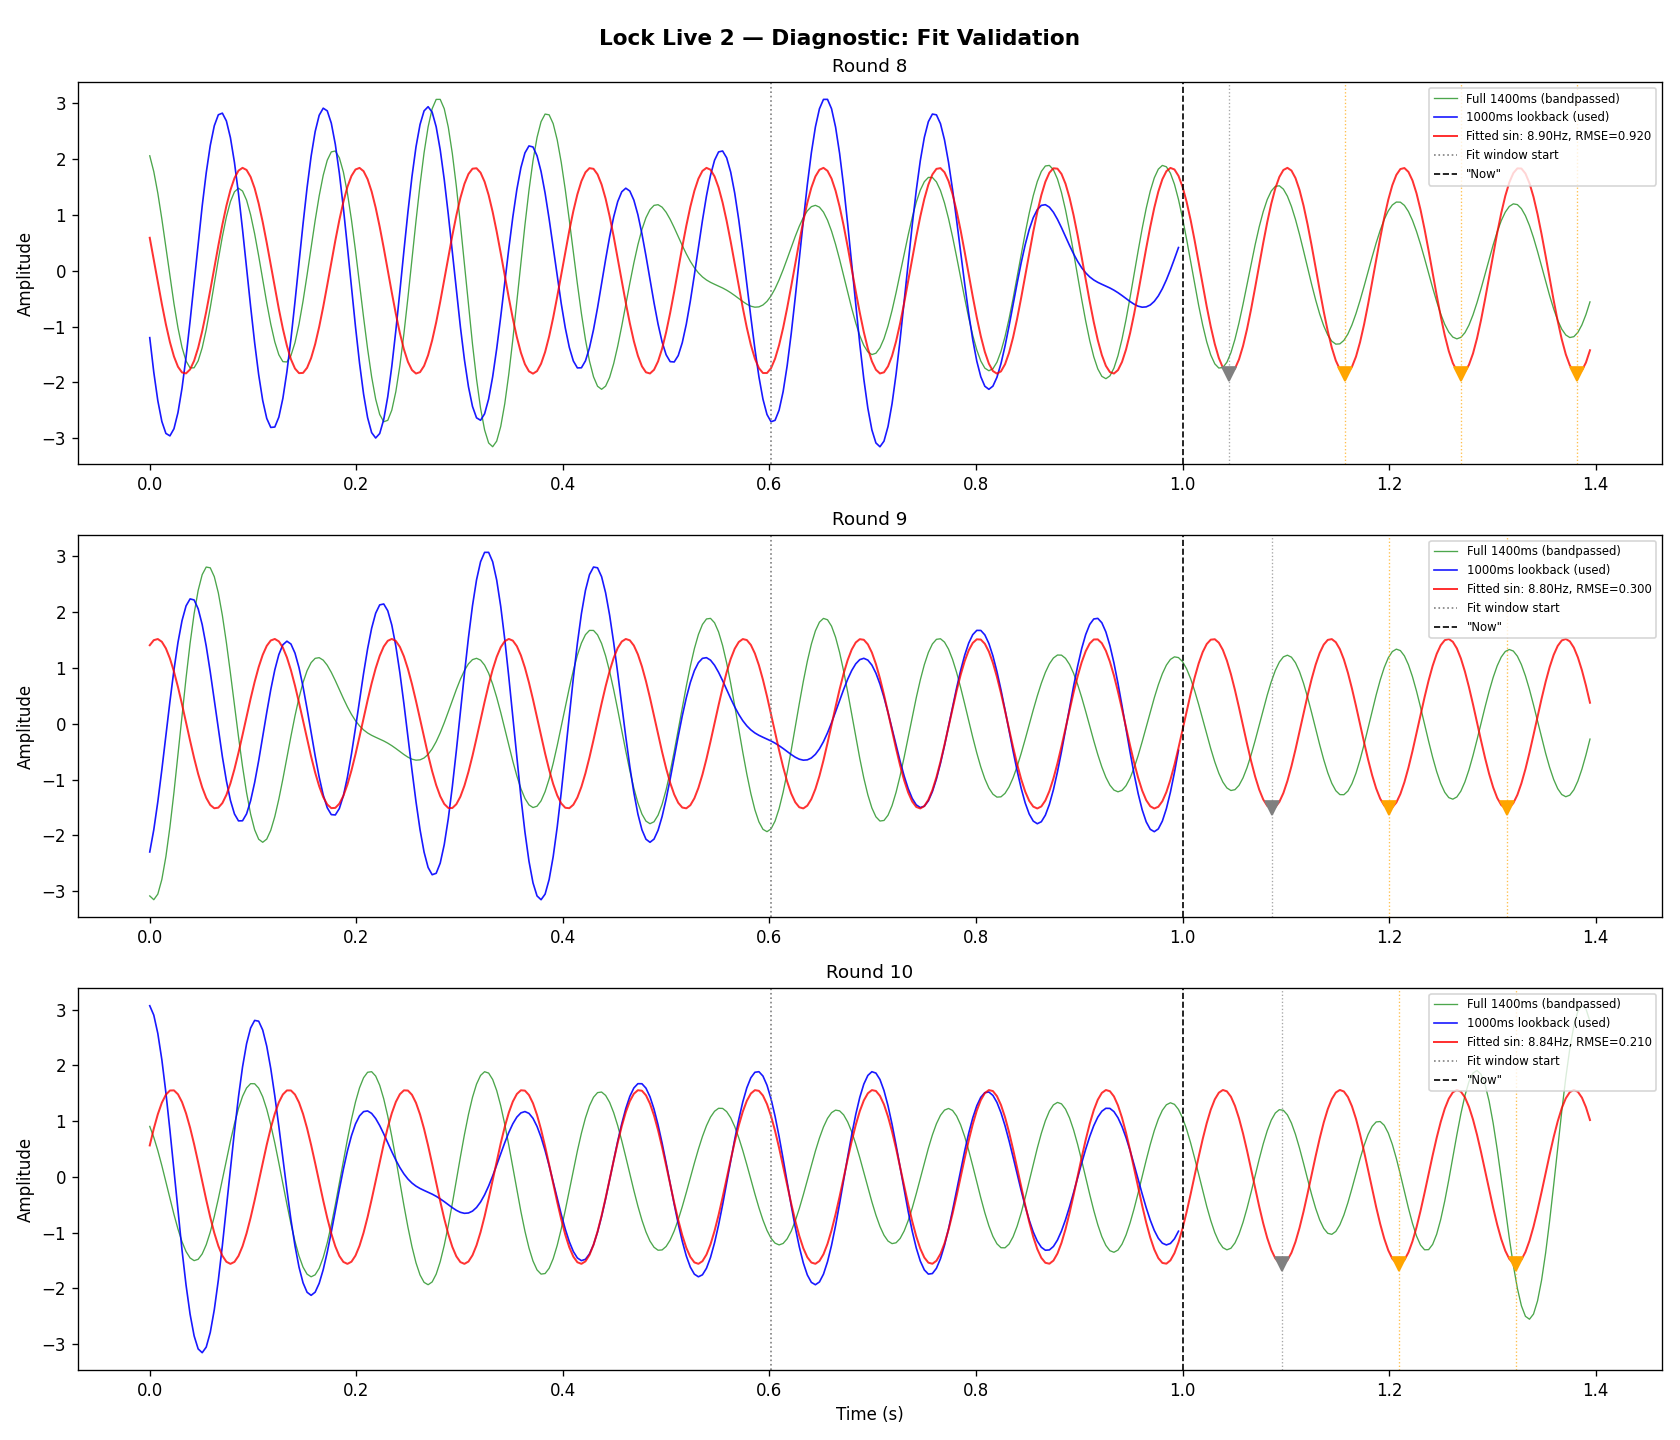
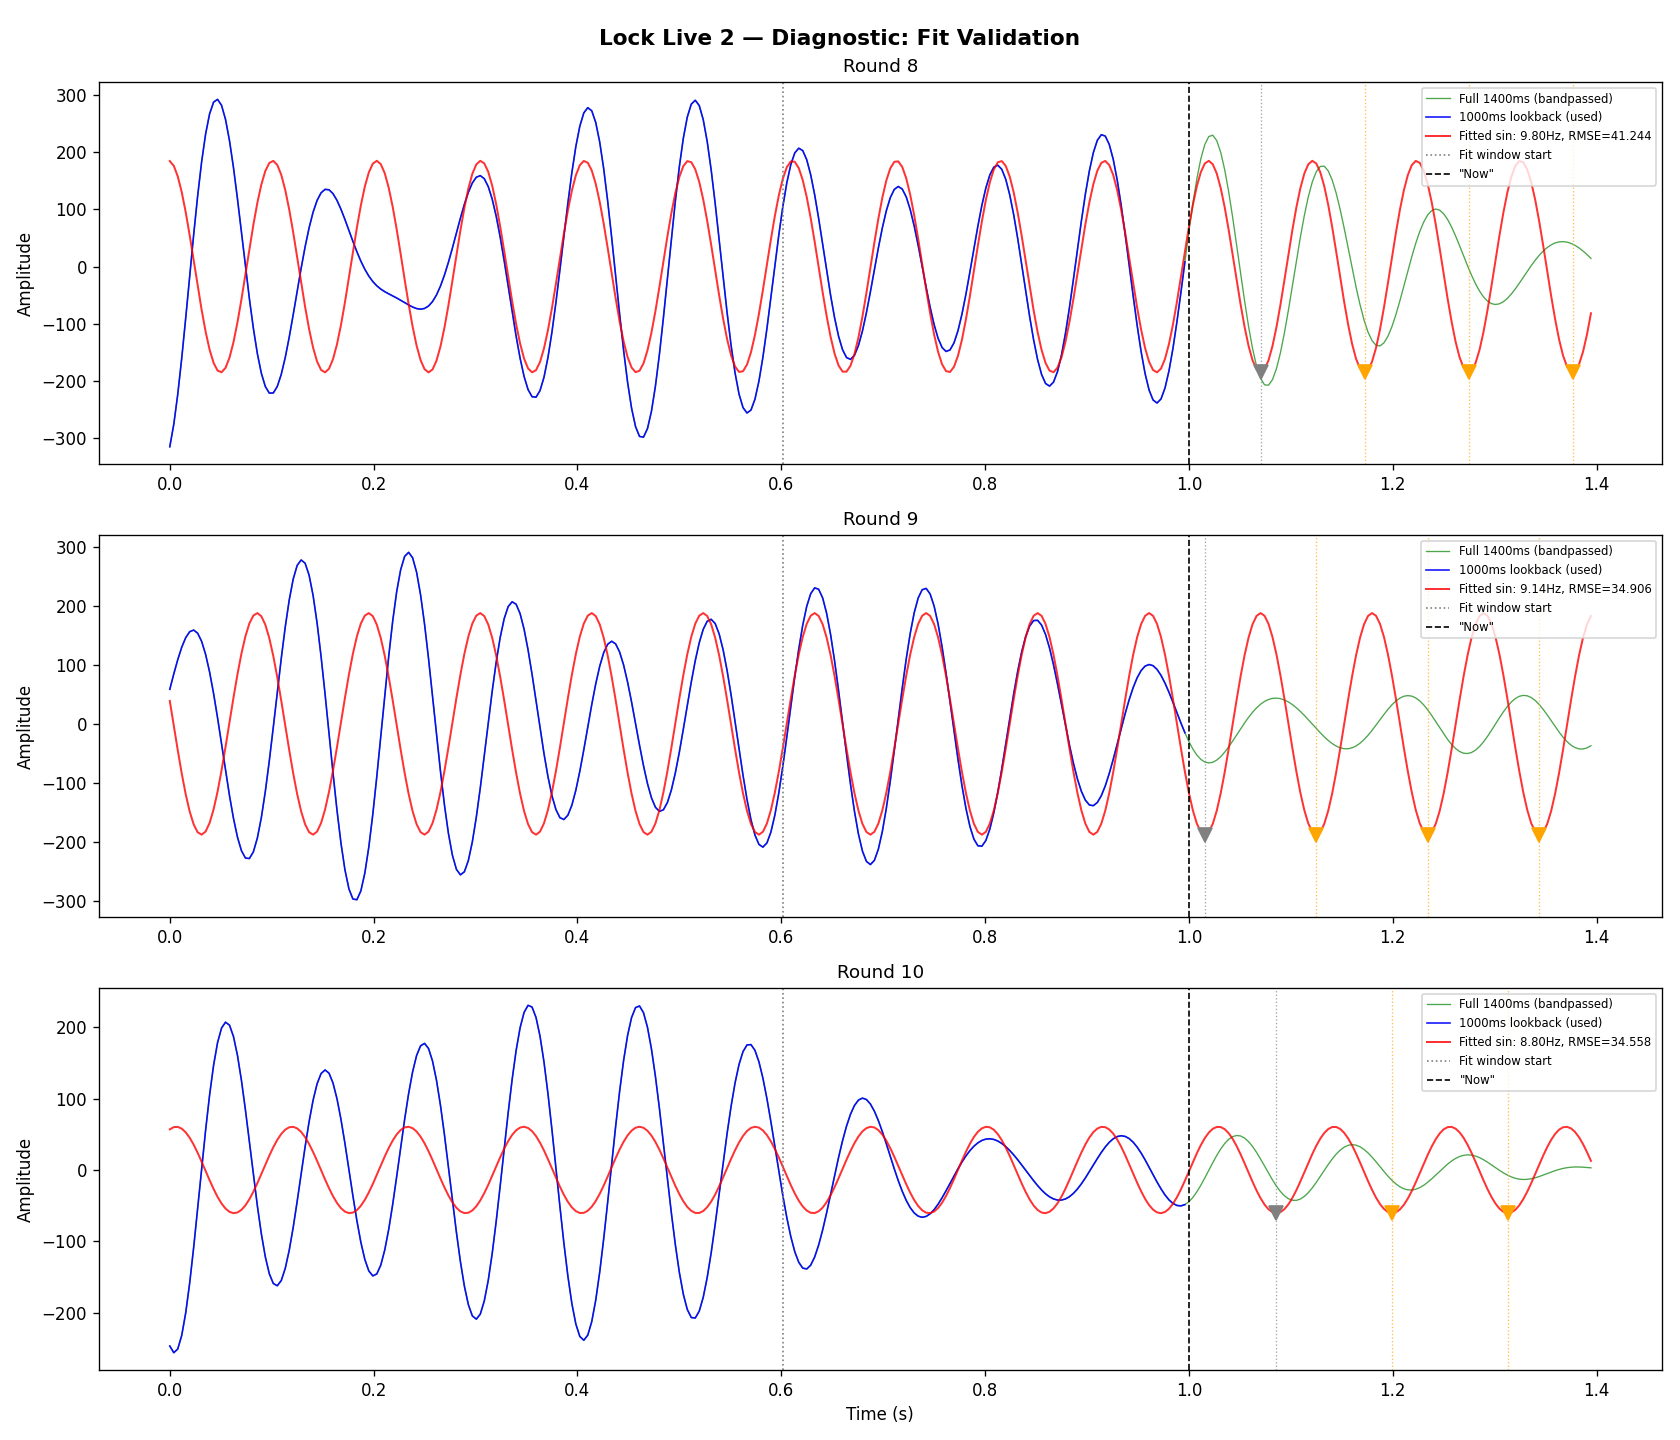
Fix diagnostic images for lock live 2

diff --git a/alpha_locking/spectrogram.py b/alpha_locking/spectrogram.py
@@ -220,7 +220,7 @@ def compute_mean_psd_from_spectrogram(freqs, power_dB, f_min=0, f_max=30,
 
 
 def plot_spectrogram(recording, f_min=0, f_max=30):
-    """Plot spectrograms for all channels with interactive sliders.
+    """Plot one spectrogram + PSD at a time; left/right arrows switch channel.
 
     Parameters
     ----------
@@ -234,6 +234,8 @@ def plot_spectrogram(recording, f_min=0, f_max=30):
     fig : matplotlib Figure
     """
     from matplotlib.widgets import Slider
+    from matplotlib.cm import ScalarMappable
+    from matplotlib.colors import Normalize
 
     data = recording["data"]         # (n_channels, n_samples)
     fs = recording["sample_rate"]
@@ -259,97 +261,68 @@ def plot_spectrogram(recording, f_min=0, f_max=30):
     total_duration = times[-1]
     default_window = min(10.0, total_duration)
 
-    # --- Figure layout (5 panels: 4 channels + composite) ---
+    # Pre-compute PSD for each panel so channel and PSD always match
+    panel_labels = list(labels) + [u"Best \u03b1"]
     n_panels = n_channels + 1
-    fig = plt.figure(figsize=(16, 12))
-    fig.suptitle(
-        f"Spectrogram: {recording.get('recording_name', '')}",
+    psd_data = []
+    for i in range(n_panels):
+        if i < n_channels:
+            pf, mp = compute_mean_psd(
+                data[i], fs, f_min, f_max, bw=0.5, step=0.1)
+        else:
+            pf, mp = compute_mean_psd_from_spectrogram(
+                specs[0][1], composite_dB, f_min, f_max, bw=0.5, step=0.1)
+        psd_data.append((pf, mp))
+
+    # --- Figure layout: single spectrogram + PSD ---
+    fig = plt.figure(figsize=(16, 6))
+    title_text = fig.suptitle(
+        f"Spectrogram: {recording.get('recording_name', '')} "
+        + u"\u2014 " + f"{panel_labels[0]}",
         fontsize=12, fontweight="bold",
     )
 
-    axes = []       # spectrogram axes
-    psd_axes = []   # mean-PSD side axes
-    meshes = []
-    panel_height = 0.115
-    panel_gap = 0.14
-    bottom_start = 0.22
-    spec_width = 0.68
-    psd_width = 0.12
-    psd_left = 0.08 + spec_width + 0.01
+    spec_ax = fig.add_axes([0.08, 0.25, 0.63, 0.60])
+    psd_ax = fig.add_axes([0.73, 0.25, 0.12, 0.60], sharey=spec_ax)
+    cbar_ax = fig.add_axes([0.87, 0.25, 0.015, 0.60])
 
-    panel_labels = list(labels) + ["Best \u03b1"]
+    # Colour bar from a fixed ScalarMappable (independent of mesh lifecycle)
+    sm = ScalarMappable(cmap="viridis", norm=Normalize(vmin=vmin, vmax=vmax))
+    fig.colorbar(sm, cax=cbar_ax, label="Power (dB)")
 
-    def _add_psd_panel(ax, ax_bottom, psd_freqs, mean_psd, is_last):
-        """Add a mean-PSD side panel with alpha peak marker."""
-        ax_psd = fig.add_axes([psd_left, ax_bottom, psd_width, panel_height],
-                              sharey=ax)
-        ax_psd.plot(mean_psd, psd_freqs, color="white", lw=1.2)
-        ax_psd.fill_betweenx(psd_freqs, vmin, mean_psd, alpha=0.3, color="cyan")
-        ax_psd.set_xlim(vmin, vmax)
-        ax_psd.set_facecolor("#1a1a2e")
-        ax_psd.tick_params(labelleft=False)
-        if not is_last:
-            ax_psd.set_xticklabels([])
-        else:
-            ax_psd.set_xlabel("dB", fontsize=8)
+    # Placeholder mesh (immediately replaced by first update())
+    t0, f0, p0 = specs[0]
+    mesh = [spec_ax.pcolormesh(t0[:2], f0, p0[:, :2], shading="gouraud",
+                               cmap="viridis", vmin=vmin, vmax=vmax)]
 
-        # Flag alpha peak (8-12 Hz)
-        a_mask = (psd_freqs >= 8) & (psd_freqs <= 12)
+    current_panel = [0]
+    t_full = specs[0][0]
+
+    def draw_psd(panel_idx):
+        """Redraw the PSD side-panel for the given channel."""
+        psd_ax.clear()
+        pf, mp = psd_data[panel_idx]
+        psd_ax.plot(mp, pf, color="white", lw=1.2)
+        psd_ax.fill_betweenx(pf, vmin, mp, alpha=0.3, color="cyan")
+        psd_ax.set_xlim(vmin, vmax)
+        psd_ax.set_facecolor("#1a1a2e")
+        psd_ax.tick_params(labelleft=False)
+        psd_ax.set_xlabel("dB", fontsize=8)
+
+        # Alpha peak marker (8-12 Hz)
+        a_mask = (pf >= 8) & (pf <= 12)
         if np.any(a_mask):
-            a_freqs = psd_freqs[a_mask]
-            a_psd = mean_psd[a_mask]
+            a_freqs = pf[a_mask]
+            a_psd = mp[a_mask]
             pk = np.argmax(a_psd)
-            ax_psd.plot(a_psd[pk], a_freqs[pk], "ro", ms=6, zorder=5)
-            ax_psd.annotate(
+            psd_ax.plot(a_psd[pk], a_freqs[pk], "ro", ms=6, zorder=5)
+            psd_ax.annotate(
                 f"{a_freqs[pk]:.1f} Hz",
                 xy=(a_psd[pk], a_freqs[pk]),
                 xytext=(8, 0), textcoords="offset points",
-                fontsize=7, color="red", fontweight="bold",
-                va="center",
+                fontsize=7, color="red", fontweight="bold", va="center",
             )
-        ax_psd.axhspan(8, 12, alpha=0.15, color="red")
-        return ax_psd
-
-    for i in range(n_panels):
-        bottom = bottom_start + (n_panels - 1 - i) * panel_gap
-        is_last = (i == n_panels - 1)
-
-        ax = fig.add_axes([0.08, bottom, spec_width, panel_height])
-
-        if i < n_channels:
-            # Regular channel
-            t, f, pdb = specs[i]
-            mesh = ax.pcolormesh(t, f, pdb, shading="gouraud", cmap="viridis",
-                                 vmin=vmin, vmax=vmax)
-            psd_freqs, mean_psd = compute_mean_psd(
-                data[i], fs, f_min, f_max, bw=0.5, step=0.1,
-            )
-        else:
-            # Composite best-channel panel
-            f = specs[0][1]
-            t = specs[0][0]
-            mesh = ax.pcolormesh(t, f, composite_dB, shading="gouraud",
-                                 cmap="viridis", vmin=vmin, vmax=vmax)
-            psd_freqs, mean_psd = compute_mean_psd_from_spectrogram(
-                f, composite_dB, f_min, f_max, bw=0.5, step=0.1,
-            )
-
-        ax.set_ylabel(f"{panel_labels[i]}\nFreq (Hz)", fontsize=9)
-        if not is_last:
-            ax.set_xticklabels([])
-        else:
-            ax.set_xlabel("Time (s)")
-        axes.append(ax)
-        meshes.append(mesh)
-
-        ax_psd = _add_psd_panel(ax, bottom, psd_freqs, mean_psd, is_last)
-        psd_axes.append(ax_psd)
-
-    # Colour bar
-    cbar_left = psd_left + psd_width + 0.015
-    cbar_ax = fig.add_axes([cbar_left, bottom_start, 0.012,
-                            panel_gap * n_panels - 0.02])
-    fig.colorbar(meshes[0], cax=cbar_ax, label="Power (dB)")
+        psd_ax.axhspan(8, 12, alpha=0.15, color="red")
 
     # --- Sliders ---
     ax_pos = fig.add_axes([0.15, 0.12, 0.7, 0.03])
@@ -377,27 +350,74 @@ def plot_spectrogram(recording, f_min=0, f_max=30):
 
         x_min = pos
         x_max = pos + window
-        for ax in axes:
-            ax.set_xlim(x_min, x_max)
+
+        idx = current_panel[0]
+        if idx < n_channels:
+            t_src, f_src, p_src = specs[idx]
+        else:
+            t_src, f_src, p_src = specs[0][0], specs[0][1], composite_dB
+
+        # ------- DYNAMIC FIDELITY: comment out this block for full resolution,
+        #         and uncomment the two lines after "END DYNAMIC FIDELITY". ------
+        margin = (x_max - x_min) * 0.02
+        vis_mask = (t_src >= x_min - margin) & (t_src <= x_max + margin)
+        vis_idx = np.where(vis_mask)[0]
+        if len(vis_idx) == 0:
+            return
+        max_cols = 800
+        if len(vis_idx) > max_cols:
+            ds_step = max(1, len(vis_idx) // max_cols)
+            vis_idx = vis_idx[::ds_step]
+        t_render = t_src[vis_idx]
+        p_render = p_src[:, vis_idx]
+        # ------- END DYNAMIC FIDELITY (uncomment below for full resolution) -----
+        # t_render = t_src
+        # p_render = p_src
+
+        mesh[0].remove()
+        mesh[0] = spec_ax.pcolormesh(t_render, f_src, p_render,
+                                      shading="gouraud", cmap="viridis",
+                                      vmin=vmin, vmax=vmax)
+        spec_ax.set_xlim(x_min, x_max)
+        spec_ax.set_ylabel("Freq (Hz)", fontsize=9)
+        spec_ax.set_xlabel("Time (s)")
+
         fig.canvas.draw_idle()
 
-    slider_pos.on_changed(update)
-    slider_zoom.on_changed(update)
+    def switch_panel(new_idx):
+        current_panel[0] = new_idx % n_panels
+        title_text.set_text(
+            f"Spectrogram: {recording.get('recording_name', '')} "
+            + u"\u2014 " + f"{panel_labels[current_panel[0]]}")
+        draw_psd(current_panel[0])
+        update()
+
+    def on_key(event):
+        if event.key == "right":
+            switch_panel(current_panel[0] + 1)
+        elif event.key == "left":
+            switch_panel(current_panel[0] - 1)
 
     def on_scroll(event):
-        if event.inaxes in axes or event.inaxes in psd_axes:
+        if event.inaxes in (spec_ax, psd_ax):
             cur = slider_zoom.val
             if event.button == "up":
                 slider_zoom.set_val(max(1.0, cur * 0.8))
             else:
                 slider_zoom.set_val(min(total_duration, cur * 1.25))
 
+    fig.canvas.mpl_connect("key_press_event", on_key)
     fig.canvas.mpl_connect("scroll_event", on_scroll)
+    slider_pos.on_changed(update)
+    slider_zoom.on_changed(update)
+
+    draw_psd(0)
     update()
 
     fig.text(
         0.5, 0.01,
-        "Scroll wheel to zoom | Drag sliders to navigate",
+        u"Left/Right: switch channel \u2502 Scroll: zoom \u2502 "
+        u"Sliders: navigate",
         ha="center", fontsize=9, style="italic", color="gray",
     )
 

diff --git a/alpha_locking/lock_live_2.py b/alpha_locking/lock_live_2.py
@@ -54,28 +54,40 @@ DIAGNOSTIC_FUTURE_S = 0.400  # extra data to capture after fit
 # ---------------------------------------------------------------------------
 
 def fit_sinusoid(signal_section, fs, freq_lo, freq_hi, freq_step):
-    """Fit A*sin(2*pi*f*t + phi), grid-searching frequency for best RMSE."""
+    """Fit A*sin(2*pi*f*t + phi), grid-searching frequency for best RMSE.
+
+    Fully vectorized across all candidate frequencies — no Python loop.
+    """
     n = len(signal_section)
     t = np.arange(n) / fs
+    freqs = np.arange(freq_lo, freq_hi + freq_step / 2, freq_step)
 
-    best_rmse = np.inf
-    best_f = (freq_lo + freq_hi) / 2
+    # (n_freqs, n_samples)
+    wt = np.outer(2 * np.pi * freqs, t)
+    S = np.sin(wt)
+    C = np.cos(wt)
 
-    for f in np.arange(freq_lo, freq_hi + freq_step / 2, freq_step):
-        w = 2 * np.pi * f
-        X = np.column_stack([np.sin(w * t), np.cos(w * t)])
-        coeffs, _, _, _ = np.linalg.lstsq(X, signal_section, rcond=None)
-        resid = signal_section - X @ coeffs
-        rmse = np.sqrt(np.mean(resid ** 2))
-        if rmse < best_rmse:
-            best_rmse = rmse
-            best_f = f
-            best_coeffs = coeffs
+    # Normal equations for [a, b] in y = a*sin + b*cos
+    ss = np.sum(S * S, axis=1)
+    cc = np.sum(C * C, axis=1)
+    sc = np.sum(S * C, axis=1)
+    sy = S @ signal_section
+    cy = C @ signal_section
 
-    a, b = best_coeffs
-    amplitude = np.sqrt(a ** 2 + b ** 2)
-    phase = np.arctan2(b, a)
-    return best_f, amplitude, phase, best_rmse
+    det = ss * cc - sc * sc
+    a = (cc * sy - sc * cy) / det
+    b = (ss * cy - sc * sy) / det
+
+    # RMSE via analytic expansion (avoids building residual matrix)
+    yy = np.dot(signal_section, signal_section) / n
+    mse = yy - 2 * (a * sy + b * cy) / n + (a * a * ss + 2 * a * b * sc + b * b * cc) / n
+    rmse = np.sqrt(np.maximum(mse, 0.0))
+
+    best_idx = np.argmin(rmse)
+    best_f = freqs[best_idx]
+    amplitude = np.sqrt(a[best_idx] ** 2 + b[best_idx] ** 2)
+    phase = np.arctan2(b[best_idx], a[best_idx])
+    return best_f, amplitude, phase, float(rmse[best_idx])
 
 
 def synth_sinusoid(t, freq, amplitude, phase):
@@ -164,13 +176,15 @@ def main():
         # --- Pull all available samples ---
         chunk, timestamps = inlet.pull_chunk(timeout=0.01, max_samples=256)
         if chunk:
-            for sample in chunk:
-                for ch in range(n_eeg):
-                    x = np.array([sample[ch]])
-                    y, filter_states[ch] = sosfilt(sos, x, zi=filter_states[ch])
-                    raw_bufs[ch].append(sample[ch])
-                    filt_bufs[ch].append(y[0])
-                sample_count += 1
+            chunk_arr = np.array(chunk)  # (n_samples, n_channels)
+            for ch in range(n_eeg):
+                ch_data = chunk_arr[:, ch]
+                filtered, filter_states[ch] = sosfilt(
+                    sos, ch_data, zi=filter_states[ch],
+                )
+                raw_bufs[ch].extend(ch_data)
+                filt_bufs[ch].extend(filtered)
+            sample_count += len(chunk)
 
         # --- Check if time to fit ---
         now_wall = time.time()
@@ -219,11 +233,12 @@ def main():
         # Clean up expired timers
         pending_timers[:] = [t for t in pending_timers if t.is_alive()]
 
-        # --- Console output ---
-        trough_delays = [f"{(t - t_now)*1000:.0f}ms" for t in troughs[:4]]
-        print(f"fit: {freq:.2f}Hz  amp={amp:.2f}  rmse={rmse:.3f}  "
-              f"troughs=[{', '.join(trough_delays)}]  "
-              f"beeps at [{', '.join(trough_delays[1:4])}]")
+        # --- Console output (every 5th fit to avoid WSL2 print overhead) ---
+        if fit_round % 5 == 0:
+            trough_delays = [f"{(t - t_now)*1000:.0f}ms" for t in troughs[:4]]
+            print(f"fit: {freq:.2f}Hz  amp={amp:.2f}  rmse={rmse:.3f}  "
+                  f"troughs=[{', '.join(trough_delays)}]  "
+                  f"beeps at [{', '.join(trough_delays[1:4])}]")
 
         # --- Diagnostic capture for rounds 8-10 ---
         fit_round += 1
@@ -238,20 +253,19 @@ def main():
                 "fit_samples": fit_samples,
                 "lookback_samples": lookback_samples,
                 "wall_time": now_wall,
-                "sample_idx": sample_count,
+                "buf_end": len(filt_arr),
             })
 
             if fit_round == DIAG_START_ROUND + N_DIAGNOSTIC_ROUNDS - 1:
                 # Schedule the diagnostic plot after future data arrives
                 def capture_and_plot():
                     time.sleep(DIAGNOSTIC_FUTURE_S + 0.2)
-                    _save_diagnostic_plot(diagnostics, filt_bufs[best_ch],
-                                         fs, sample_count)
+                    _save_diagnostic_plot(diagnostics, filt_bufs[best_ch], fs)
                 t = threading.Thread(target=capture_and_plot, daemon=True)
                 t.start()
 
 
-def _save_diagnostic_plot(diagnostics, filt_buf, fs, current_sample_count):
+def _save_diagnostic_plot(diagnostics, filt_buf, fs):
     """Save diagnostic plot for captured fitting rounds."""
     import matplotlib
     matplotlib.use("Agg")
@@ -263,9 +277,6 @@ def _save_diagnostic_plot(diagnostics, filt_buf, fs, current_sample_count):
         axes = [axes]
 
     filt_arr = np.array(filt_buf)
-    # The deque's last element corresponds to current_sample_count.
-    # Position in array = sample_idx - (current_sample_count - len(filt_arr))
-    deque_offset = current_sample_count - len(filt_arr)
 
     for i, diag in enumerate(diagnostics):
         ax = axes[i]
@@ -279,11 +290,11 @@ def _save_diagnostic_plot(diagnostics, filt_buf, fs, current_sample_count):
         t_lookback = np.arange(len(lookback)) / fs
 
         # (b) Green: full 1400ms from the continuous filter buffer
-        end_abs = diag["sample_idx"] + future_samples
-        start_abs = diag["sample_idx"] - lookback_samples
-        # Convert absolute indices to deque positions
-        start_pos = max(0, start_abs - deque_offset)
-        end_pos = min(len(filt_arr), end_abs - deque_offset)
+        # buf_end is the deque length at capture time — avoids race with
+        # sample_count which is read from a different thread.
+        buf_end = diag["buf_end"]
+        start_pos = buf_end - lookback_samples
+        end_pos = min(buf_end + future_samples, len(filt_arr))
         full_window = filt_arr[start_pos:end_pos]
         t_full = np.arange(len(full_window)) / fs
 
